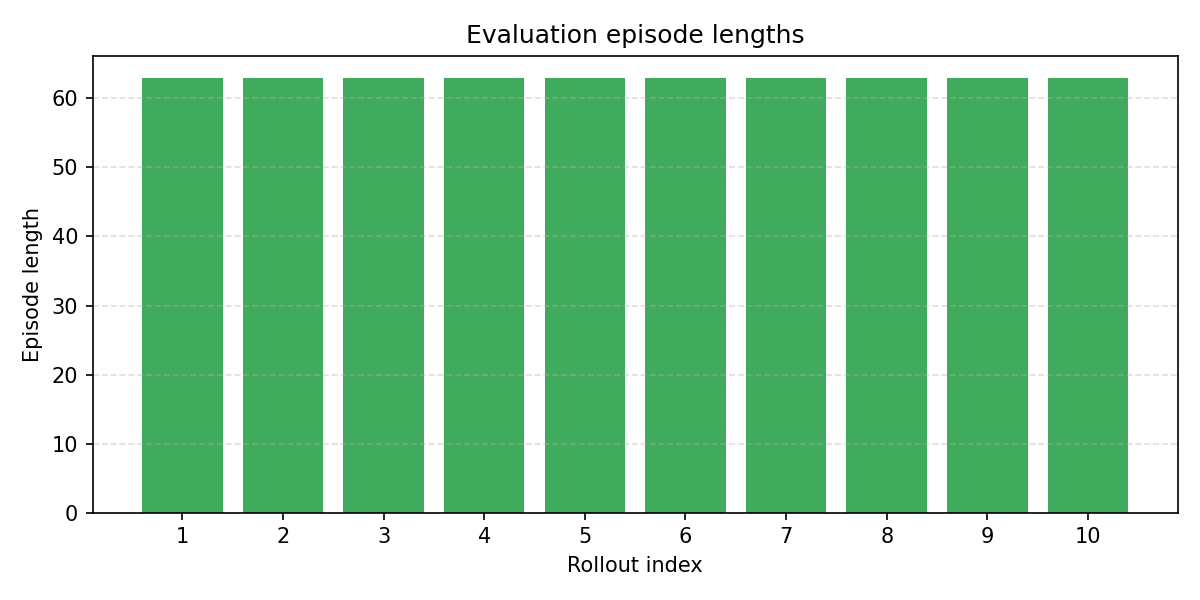
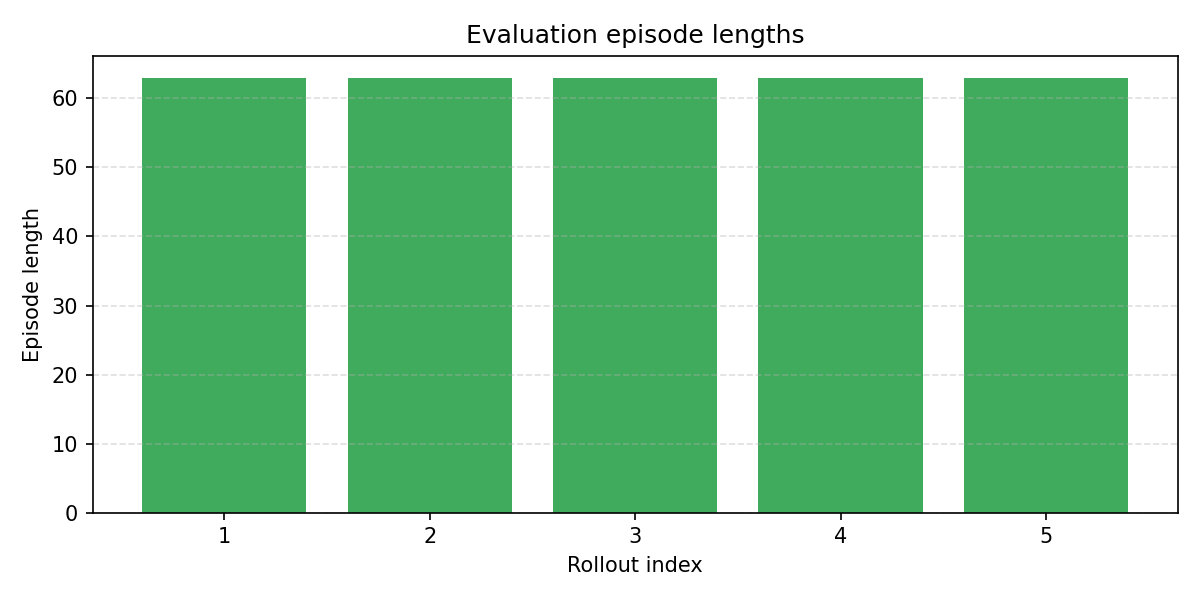
Update evaluation summary and tracking configuration: modify rollout parameters, adjust energy metrics, and enhance model rollout state sampling for improved training performance.

diff --git a/mbpo/algorithms/mbpo.py b/mbpo/algorithms/mbpo.py
@@ -449,11 +449,32 @@ class MBPO(RLAlgorithm):
         model_metrics = self._model.train(train_inputs, train_outputs, **kwargs)
         return model_metrics
 
+    def _sample_model_rollout_start_states(self, batch_size):
+        if not hasattr(self._pool, 'fields') or 'terminals' not in self._pool.fields:
+            return self.sampler.random_batch(batch_size)
+
+        if self._pool.size == 0:
+            return self.sampler.random_batch(batch_size)
+
+        terminals = self._pool.fields['terminals'][:self._pool.size].squeeze(-1)
+        nonterminal_indices = np.where(~terminals)[0]
+        if len(nonterminal_indices) == 0:
+            return self.sampler.random_batch(batch_size)
+
+        replace = len(nonterminal_indices) < batch_size
+        indices = np.random.choice(nonterminal_indices, size=batch_size, replace=replace)
+        observation_keys = getattr(self.sampler.env, 'observation_keys', None)
+        return self._pool.batch_by_indices(
+            indices,
+            field_name_filter='observations',
+            observation_keys=observation_keys,
+        )
+
     def _rollout_model(self, rollout_batch_size, **kwargs):
         print('[ Model Rollout ] Starting | Epoch: {} | Rollout length: {} | Batch size: {}'.format(
             self._epoch, self._rollout_length, rollout_batch_size
         ))
-        batch = self.sampler.random_batch(rollout_batch_size)
+        batch = self._sample_model_rollout_start_states(rollout_batch_size)
         obs = batch['observations']
         steps_added = []
         low = self._training_environment.observation_space.low

diff --git a/examples/config/pv_tracking/0.py b/examples/config/pv_tracking/0.py
@@ -39,8 +39,8 @@ params = {
         'save_every_epochs': 5,
         'early_stop_patience': 12,
         'monitor_metric': 'evaluation/return-average',
-        'q_loss_warning_threshold': 0.03,
-        'q_loss_stop_threshold': 0.1,
+        'q_loss_warning_threshold': 0.1,
+        'q_loss_stop_threshold': 1,
 
         # ~10 full PV episodes (63 steps) before SAC training starts.
         'n_initial_exploration_steps': 630,
